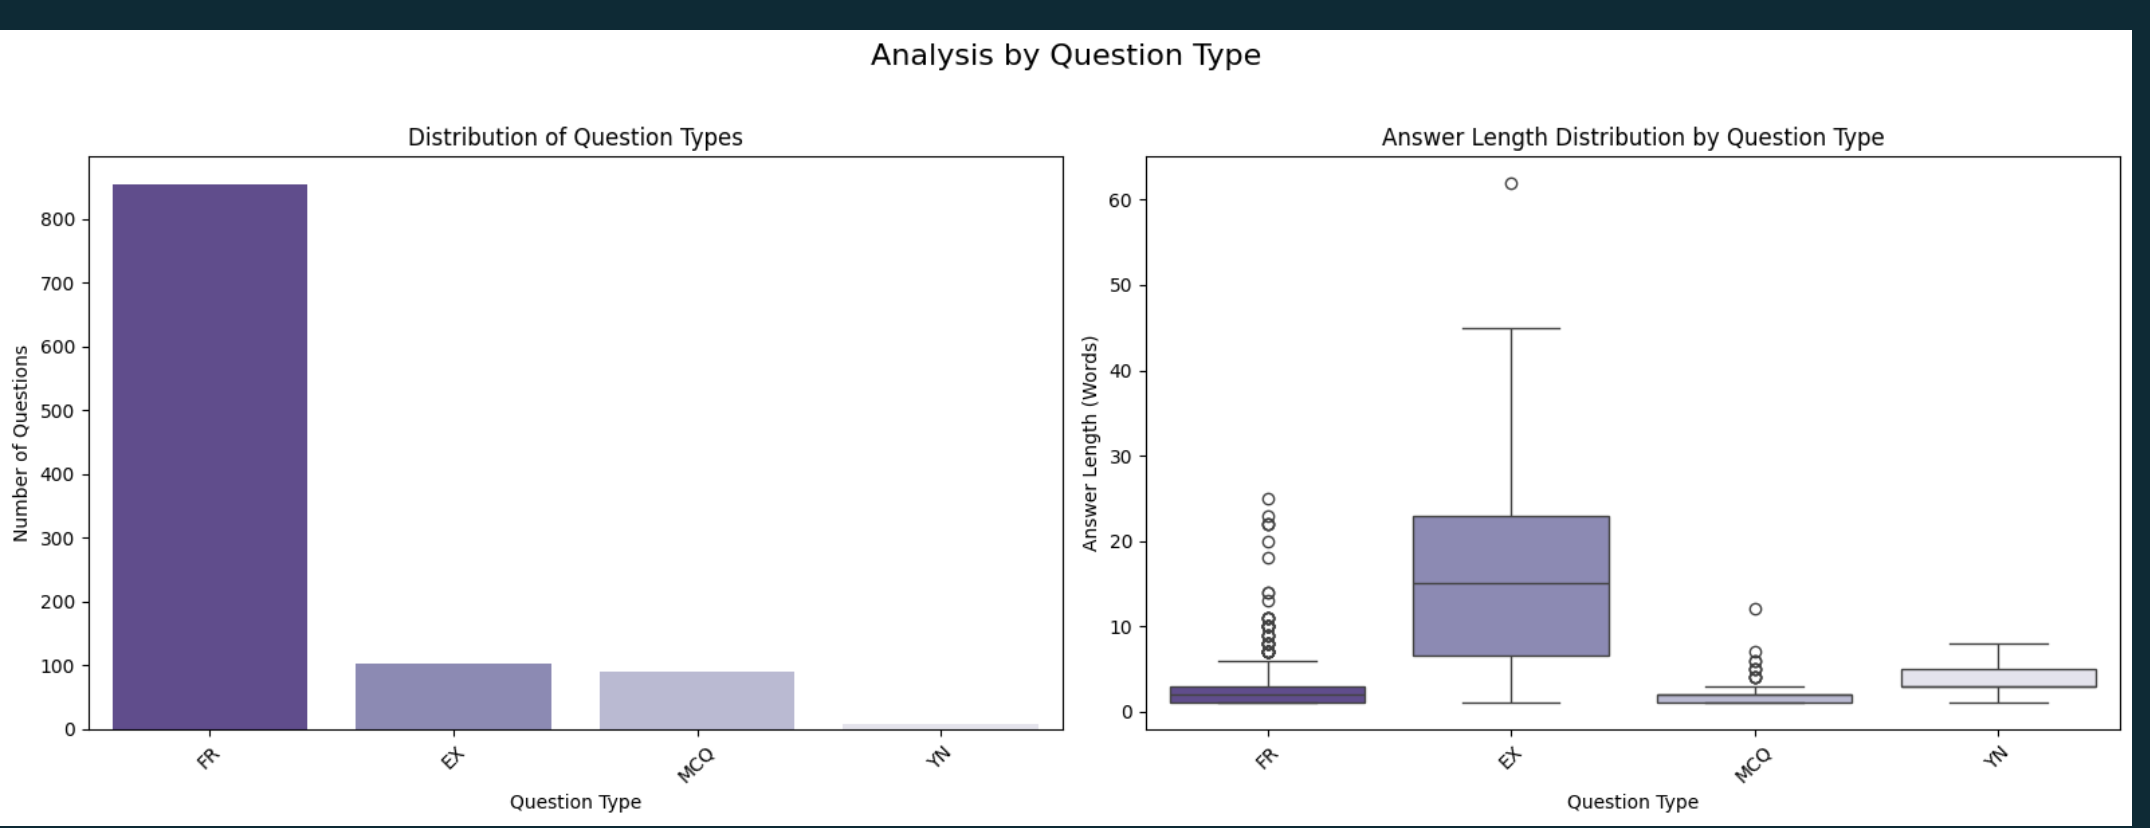
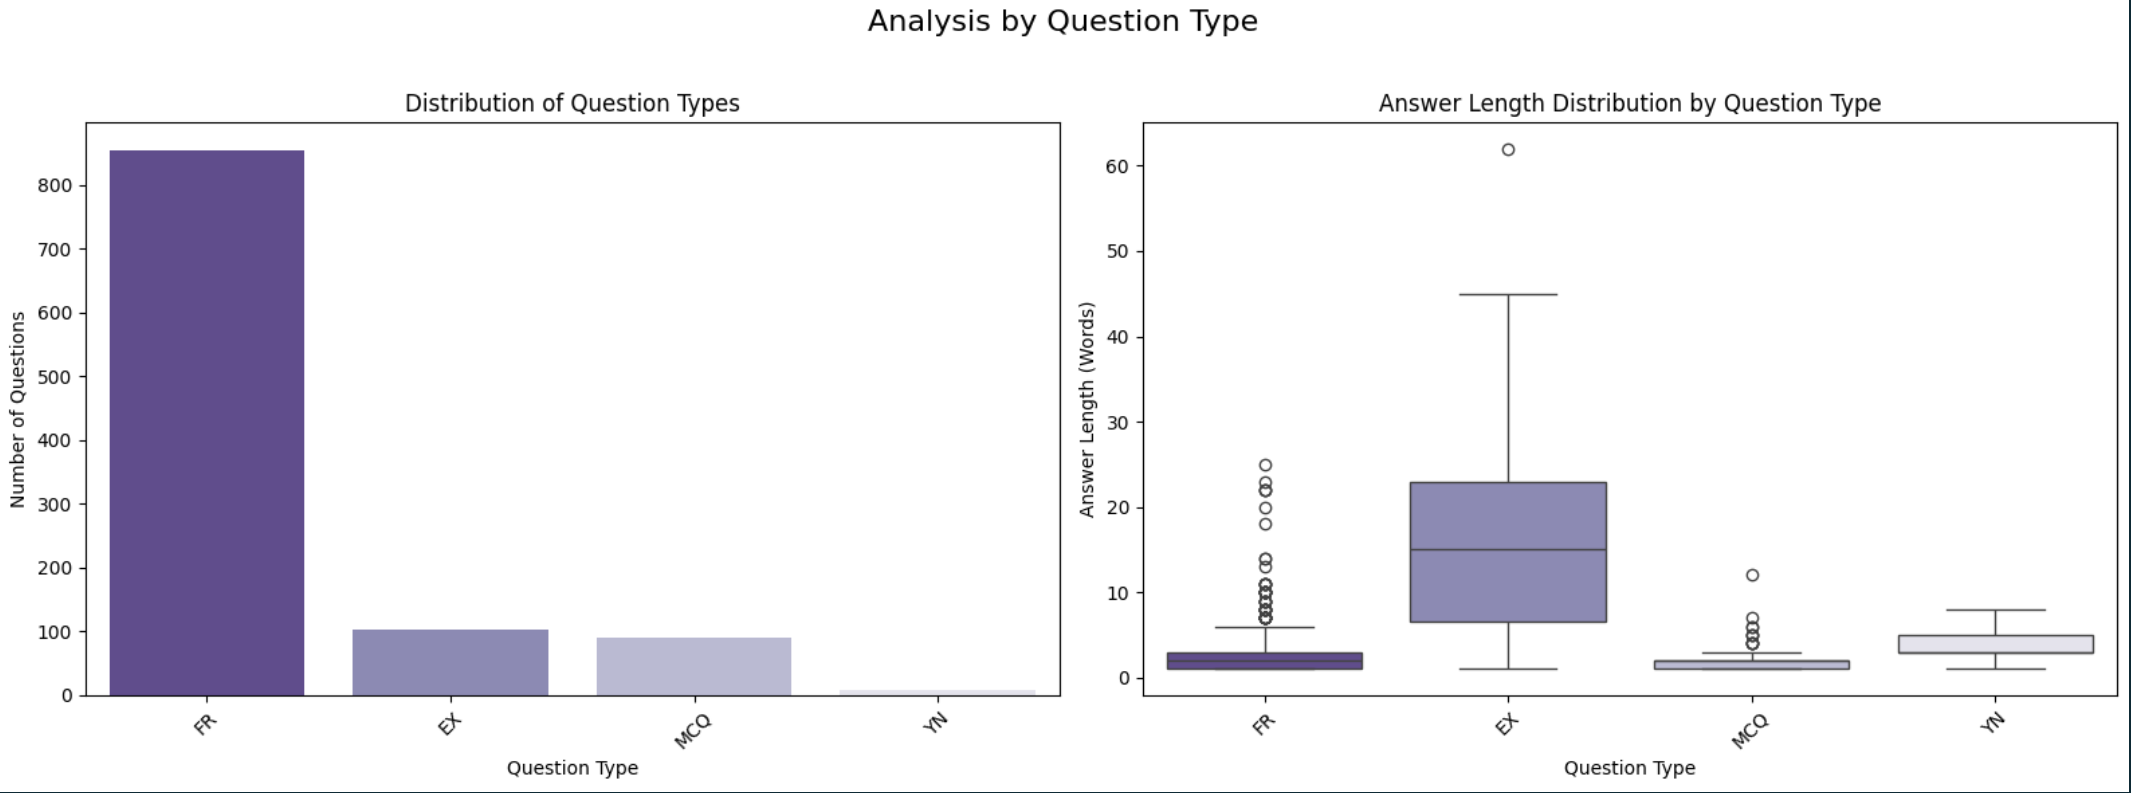
chore: edit format of readme file and phase 1 screenshot

diff --git a/README.md b/README.md
@@ -100,7 +100,7 @@ Through a comprehensive process of Exploratory Data Analysis (EDA) and data cura
 <br>
 
 - **Developed a robust automated data ingestion pipeline** with integrated quality checks (schema validation, NaN handling) and a tiered duplicate detection system utilising semantic similarity that can validate and process new, curated questions.
-- **Developed reusable analysis tools**.Built a reusable `eda_scripts` module to encapsulate all data processing, analysis, and reporting functions, including a *"Status Map" dashboard* that visualizes the final dataset's composition.
+- **Developed reusable analysis tools**. Built a reusable `eda_scripts` module to encapsulate all data processing, analysis, and reporting functions, including a *"Status Map" dashboard* that visualizes the final dataset's composition.
 - **Curated the unique questions down to a final, validated MVP dataset of 902 questions.** This process involved extensive domain-specific edits, including re-authoring 203 questions for clarity and replacing over 100 flawed entries with new, lore-accurate MCQs.
 
 The final, curated dataset serves as a strong foundation for the trivia game MVP. The next phase will focus on expanding the dataset with an additional 500+ questions (primarily explanatory type) using a guided AI generation pipeline to showcase advanced semantic NLP capabilities.
@@ -143,7 +143,7 @@ The final, curated dataset serves as a strong foundation for the trivia game MVP
     <td align="center"><sub><b>Engineering</b></sub></td>
     <td><img src="https://img.shields.io/badge/Architecture-Modular%20%7C%20Installable-lightgrey" alt="Modular"></td>
     <td><img src="https://img.shields.io/badge/Testing-unittest%20%7C%20pytest-yellow" alt="Testing"></td>
-    <td><img src="https://img.shields.io/badge/Git-versioned-critical?logo=git" alt="Version Control"></td>
+    <td><img src="https://img.shields.io/badge/Git-versioned-blue?logo=git" alt="Version Control"></td>
     <td><img src="https://img.shields.io/badge/Containerized-Docker-blue?logo=docker" alt="Containerized"></td>
   </tr>
   <tr>